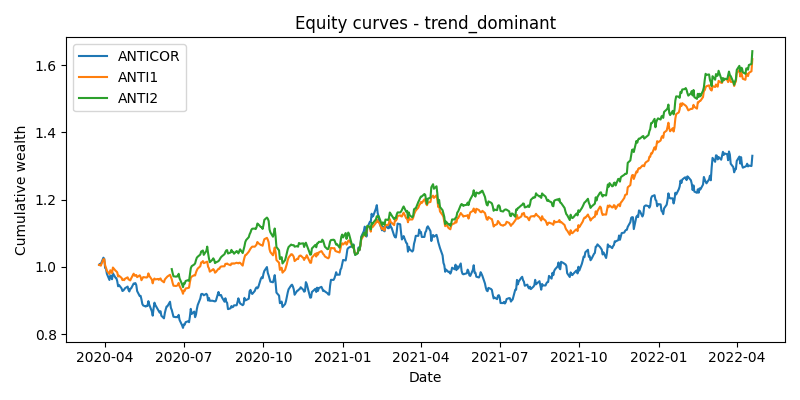
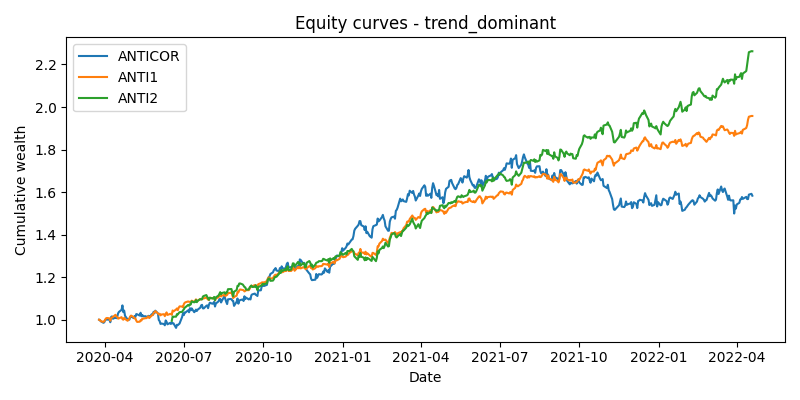
Add synthetic data generator with ANTICOR/ANTI1/ANTI2 and updated outputs

diff --git a/src/synthetic_data.py b/src/synthetic_data.py
@@ -519,7 +519,7 @@ def plot_sample_equities(equity_sets: List[Tuple[str, Dict[str, pd.Series]]], ou
 # ---------------------------------------------------------------------------
 # Entry points
 # ---------------------------------------------------------------------------
-def run_scenarios(num_assets: int = 8, num_days: int = 500, w: int = 30, W_max: int = 30) -> None:
+def run_scenarios(num_assets: int = 25, num_days: int = 500, w: int = 30, W_max: int = 30) -> None:
     base_seed = 42
     scenarios = build_scenarios(num_assets=num_assets, num_days=num_days)
 
@@ -541,7 +541,7 @@ def main() -> None:
     # Richer sweep (small and fast) with exports + plots.
     seeds = [101, 202, 303]
     ws = [30]  # match main notebook window choice
-    scenarios = build_scenarios(num_assets=10, num_days=600)
+    scenarios = build_scenarios(num_assets=25, num_days=600)
     out_dir = Path("results/synthetic")
     runs, sample_equities = sweep_scenarios(
         scenarios=scenarios,
